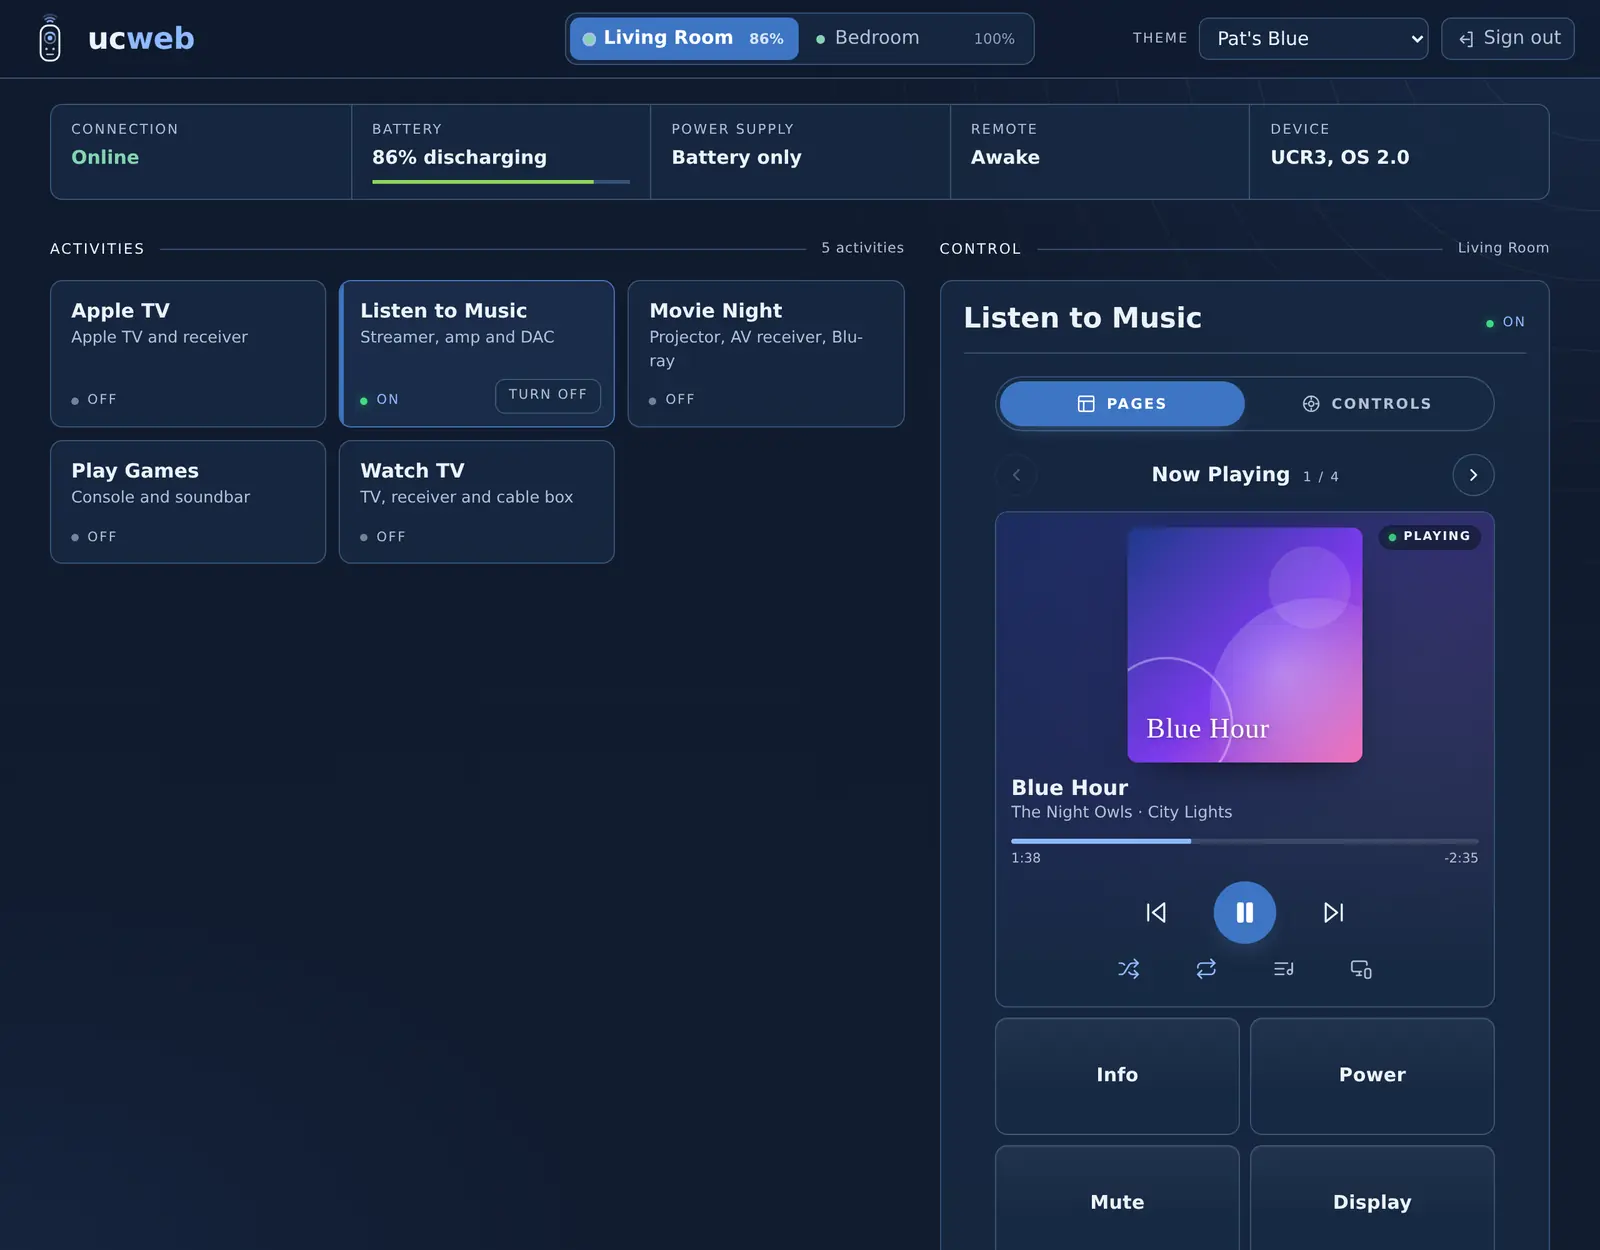
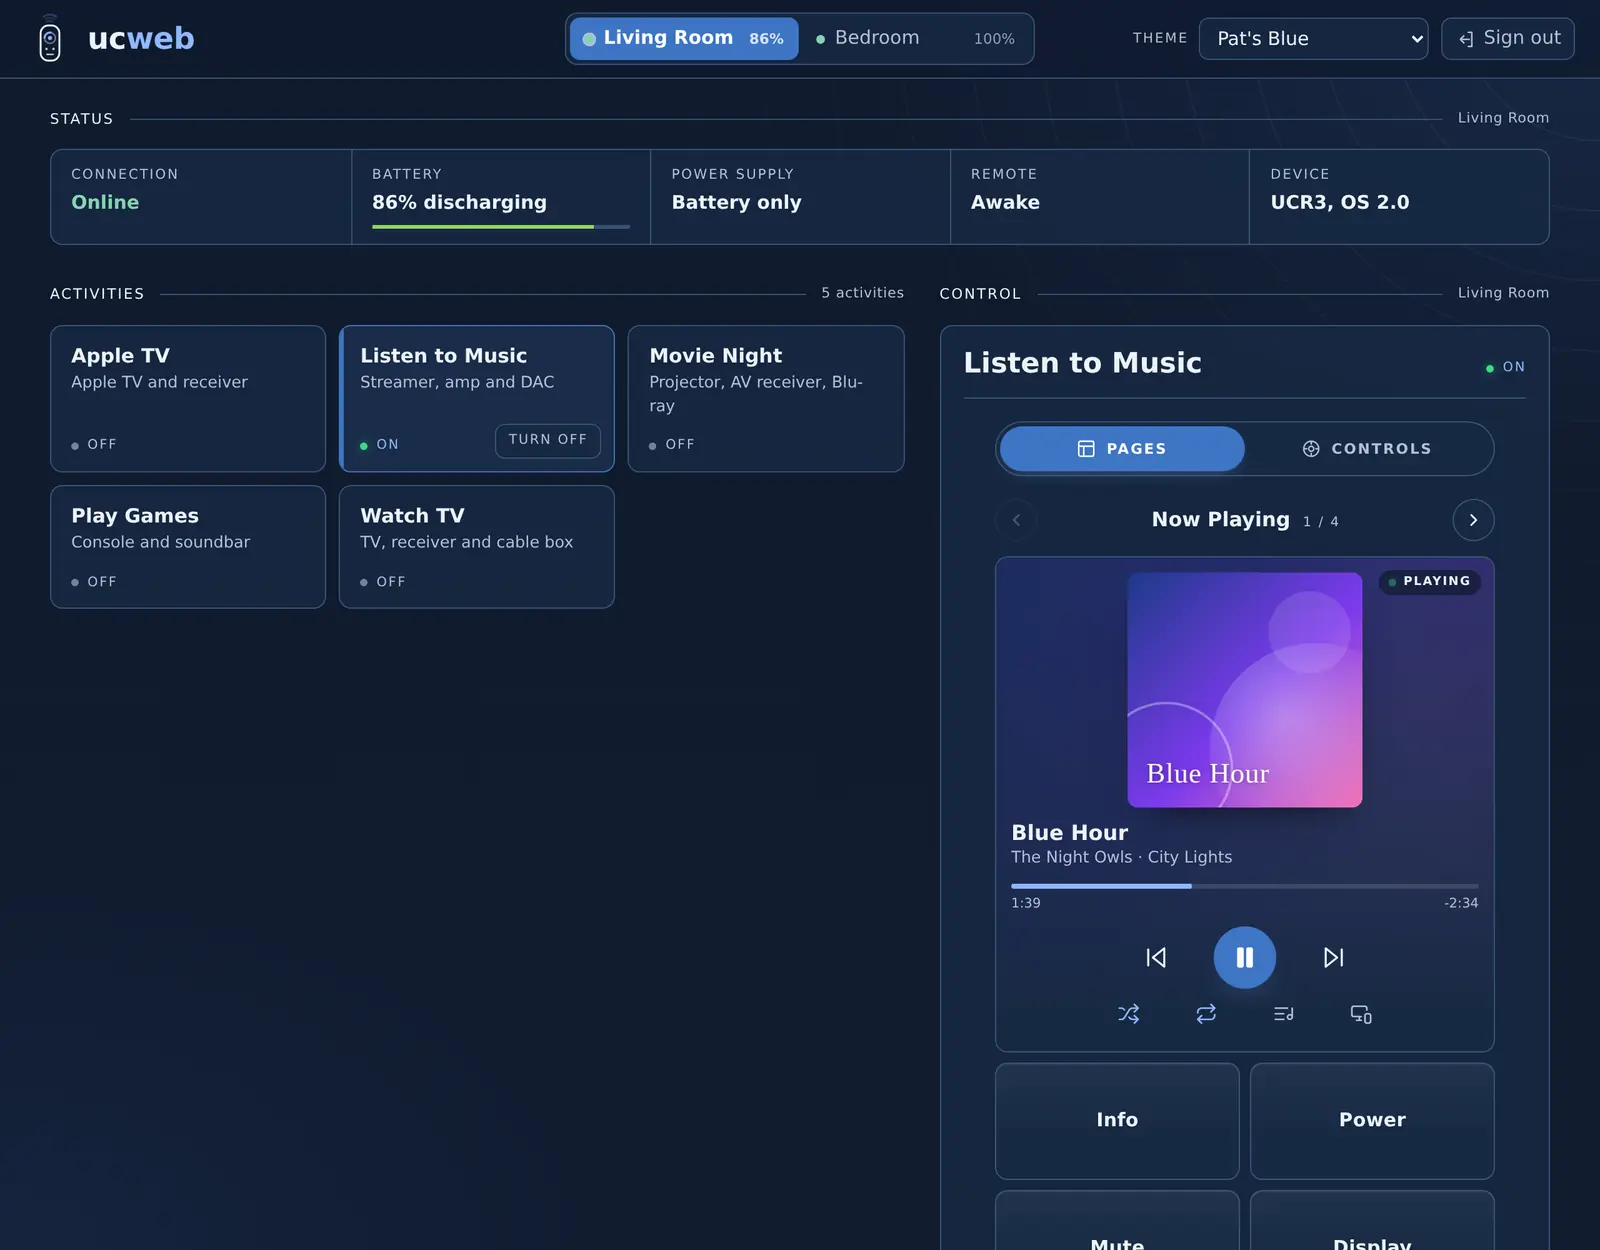
style(app): title the status panel like the other sections
The status bar was the only panel on the page without a section head.
It now sits under a "Status" heading with the selected remote's name on
the right, matching Activities, Control and Remote: same left edge, the
same 12 px above the panel and the same 28 px before the next section.
A test checks that every panel on the main page has a titled section
head. The README's desktop screenshot is retaken to show it.

diff --git a/test/pages-markup.test.js b/test/pages-markup.test.js
@@ -60,3 +60,12 @@ test('button labels, app names, sensor values and select values share one type s
   assert.equal(tiles['justify-content'], 'center');
   assert.equal(rule('.sensor-value')['justify-content'], 'center');
 });
+
+test('every panel on the main page has a titled section head', async () => {
+  const html = await readFile(path.join(publicDir, 'index.html'), 'utf8');
+  const main = html.slice(html.indexOf('<main'), html.indexOf('</main>'));
+  const sections = [...main.matchAll(/<section class="section[^"]*"[^>]*aria-labelledby="([a-z-]+)"[^>]*>\s*<header class="section-head">\s*<h2 class="section-title" id="([a-z-]+)">([^<]+)<\/h2>/g)];
+  assert.deepEqual(sections.map(([, labelledBy, id, title]) => [labelledBy === id, title]), [[true, 'Status'], [true, 'Activities'], [true, 'Control'], [true, 'Remote']]);
+  assert.equal((main.match(/<section\b/g) ?? []).length, 4);
+  assert.match(main, /<div class="status" id="status" aria-live="polite"><\/div>/);
+});

diff --git a/public/index.html b/public/index.html
@@ -77,7 +77,13 @@
   <div class="banner" id="banner" hidden></div>
 
   <main class="page" id="app" hidden>
-    <section class="status" id="status" aria-live="polite"></section>
+    <section class="section status-section" aria-labelledby="status-title">
+      <header class="section-head">
+        <h2 class="section-title" id="status-title">Status</h2>
+        <span class="section-meta" id="status-meta"></span>
+      </header>
+      <div class="status" id="status" aria-live="polite"></div>
+    </section>
 
     <div class="layout">
       <section class="section activities" aria-labelledby="activities-title">

diff --git a/public/app.js b/public/app.js
@@ -658,6 +658,7 @@ function renderControl(remote) {
 function renderSectionMeta(remote) {
   const count = remote?.activities.length ?? 0;
   $('activities-meta').textContent = remote ? `${count} ${count === 1 ? 'activity' : 'activities'}` : '';
+  $('status-meta').textContent = remote ? remote.name ?? remote.address : '';
   $('control-meta').textContent = remote ? remote.name ?? remote.address : '';
   $('system-meta').textContent = remote ? remote.name ?? remote.address : '';
 }

diff --git a/public/styles.css b/public/styles.css
@@ -378,10 +378,13 @@ svg {
   padding: 20px max(20px, env(safe-area-inset-right)) max(32px, env(safe-area-inset-bottom)) max(20px, env(safe-area-inset-left));
 }
 
+.status-section {
+  margin-bottom: 28px;
+}
+
 .status {
   display: grid;
   grid-template-columns: repeat(5, minmax(0, 1fr));
-  margin-bottom: 28px;
   border: 1px solid var(--hairline);
   border-radius: var(--radius);
   background: var(--surface-glass);
